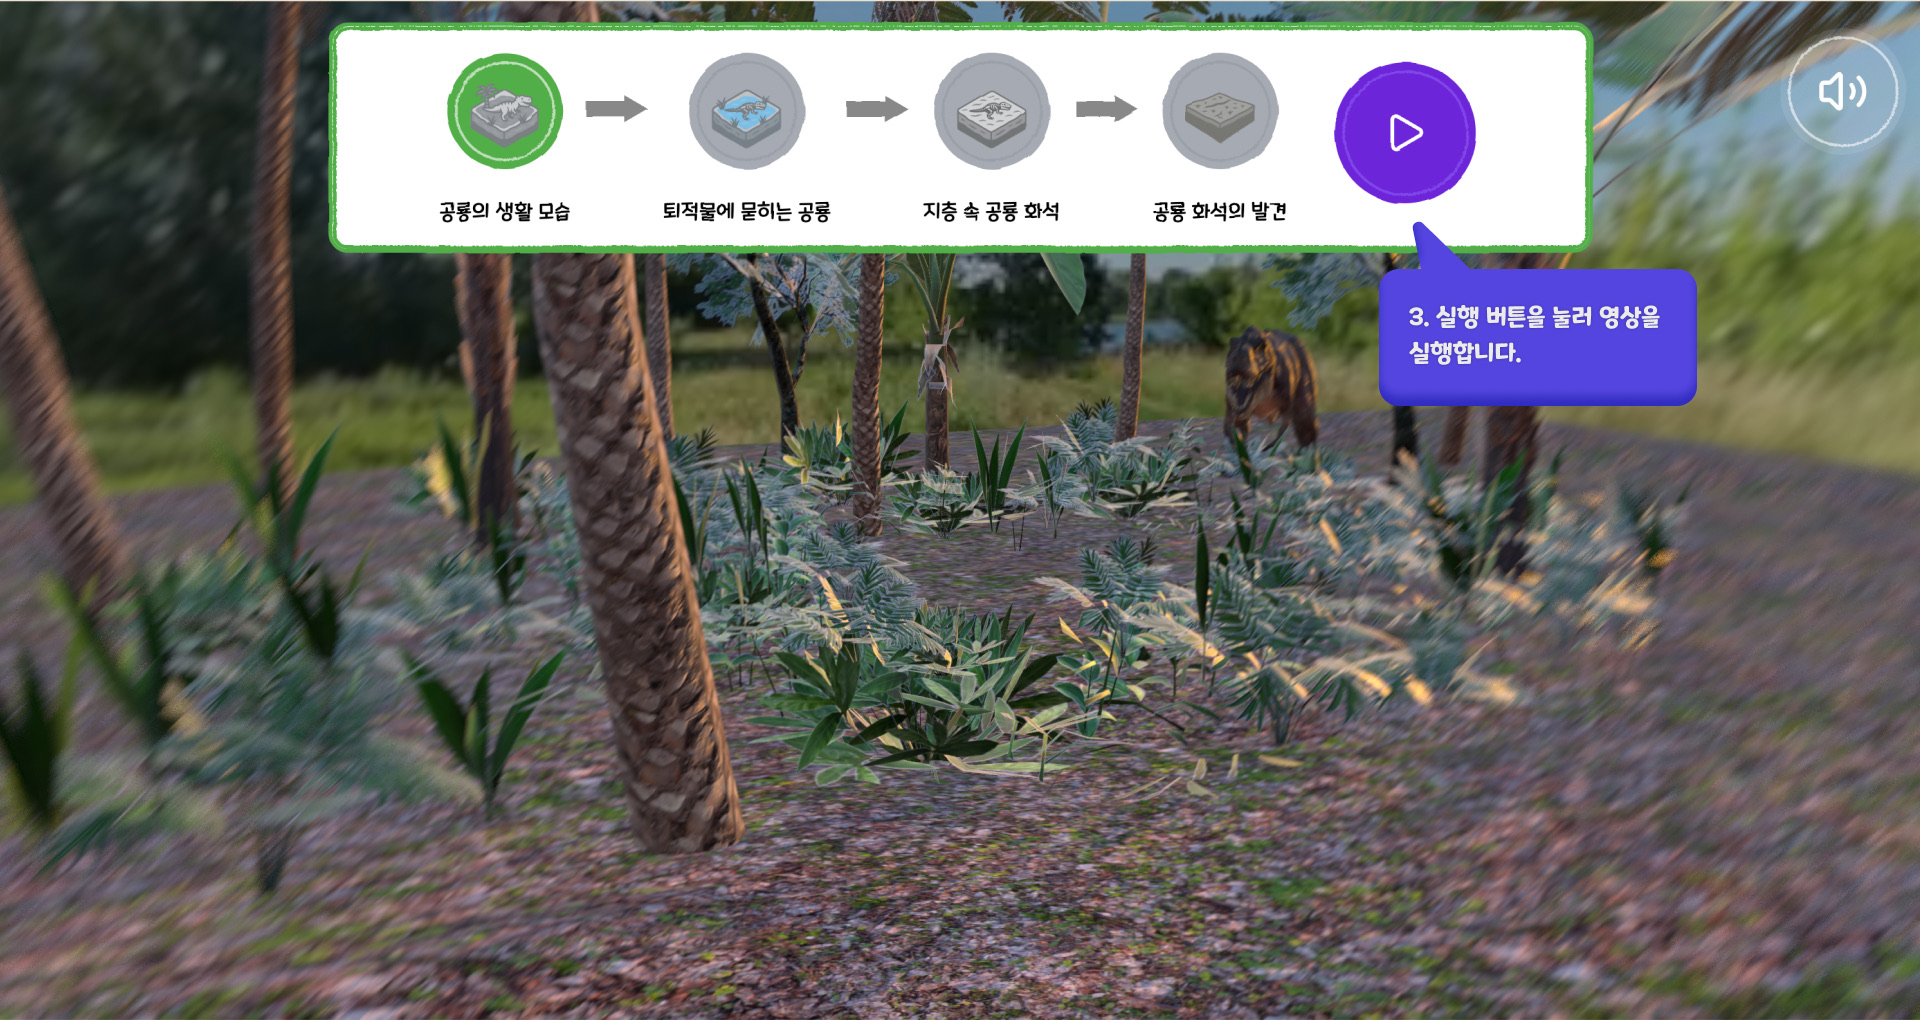
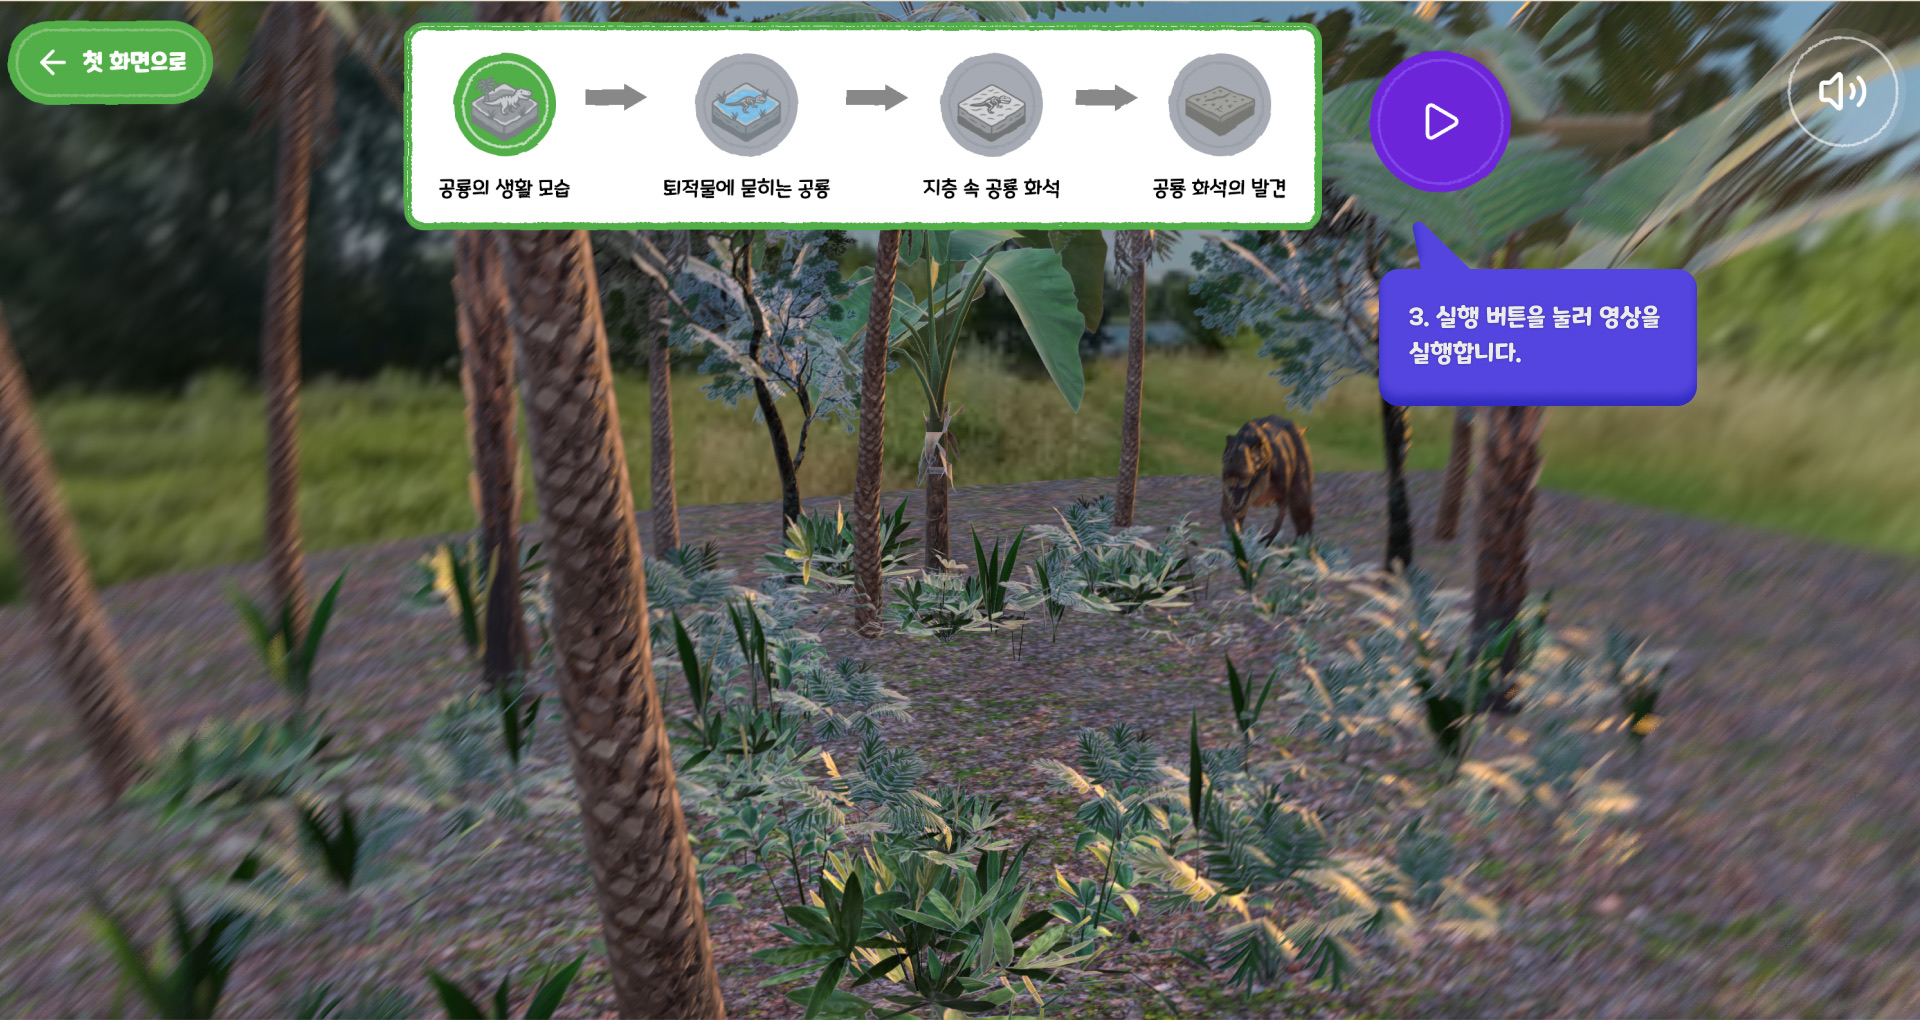
udpate: projects

diff --git a/client/src/pages/5-1-1.tsx b/client/src/pages/5-1-1.tsx
@@ -260,10 +260,12 @@ function SceneContent({
             shadow-bias={-0.0001}
             shadow-normalBias={0.2}
           />
-          <EffectComposer multisampling={2}>
-            <N8AO aoRadius={25} distanceFalloff={1} intensity={3} screenSpaceRadius halfRes />
-            <TiltShift2 />
-          </EffectComposer>
+          {sceneIndex === 0 && (
+            <EffectComposer multisampling={2}>
+              <N8AO aoRadius={25} distanceFalloff={1} intensity={3} screenSpaceRadius halfRes />
+              <TiltShift2 />
+            </EffectComposer>
+          )}
         </>
       )}
 
@@ -271,10 +273,13 @@ function SceneContent({
         path={modelPaths[sceneIndex]}
         scale={3.7}
         position={
-          sceneIndex === 1 ? [-2.44, -7.5, -1.31]
-          : sceneIndex === 2 ? [-2.7, -7, -1.1]
-          : sceneIndex === 3 ? [-2, -7, 0]
-          : [1.5, -7, -2.0]
+          sceneIndex === 1
+            ? [-2.44, -7.5, -1.31]
+            : sceneIndex === 2
+            ? [-2.7, -7, -1.1]
+            : sceneIndex === 3
+            ? [-2, -7, 0]
+            : [1.5, -10, -2.0]
         }
         sceneIndex={sceneIndex}
         shouldAnimate={animationState.isPlaying}
@@ -372,13 +377,6 @@ export default function Home() {
     return () => document.removeEventListener('visibilitychange', handleVisibility)
   }, [bgmEnabled, bgmReady])
 
-  // 최초 사용자 제스처로 언락 (모바일 대비)
-  useEffect(() => {
-    const unlock = () => setBgmReady(true)
-    window.addEventListener('pointerdown', unlock, { once: true })
-    return () => window.removeEventListener('pointerdown', unlock)
-  }, [])
-
   // 페이드 함수
   const fadeTo = useCallback(async (targetVol: number, ms = 400) => {
     const el = bgmRef.current
@@ -400,7 +398,9 @@ export default function Home() {
   useEffect(() => {
     const el = bgmRef.current
     if (!el) return
-    try { localStorage.setItem('bgmEnabled', JSON.stringify(bgmEnabled)) } catch {}
+    try {
+      localStorage.setItem('bgmEnabled', JSON.stringify(bgmEnabled))
+    } catch {}
     const run = async () => {
       if (bgmEnabled && bgmReady) {
         await el.play().catch(() => {})
@@ -465,10 +465,9 @@ export default function Home() {
     audioManager.playEffect(audioPath, 0.5)
   }
 
-  // 인트로에서 "시작하기" → 3D로 전환 + BGM 준비
   const handleEnterExperience = () => {
     playClickSound()
-    setBgmReady(true) // ★ 입장 시 자동 준비
+    setBgmReady(true)
     setTimeout(() => setShowIntro(false), 300)
   }
 
@@ -493,44 +492,62 @@ export default function Home() {
 
   return (
     <div className='w-screen h-screen flex flex-col overflow-hidden'>
-      {/* BGM 토글 버튼 */}
       {mounted && (
-        <CrayonTextButton
-          ariaLabel={bgmEnabled ? '배경음악 끄기' : '배경음악 켜기'}
-          icon={(bgmEnabled ? 'volume2' : 'volumeX').toLowerCase()}
-          position='absolute'
-          iconPosition='left'
-          onClick={toggleBgm}
-          width={108}
-          height={108}
-          color='#ffffff'
-          textcolor='#ffffff'
-          bg='rgba(255,255,255,0.10)'
-          className='background-blur border-white/20 z-[1300]'
-          right={16}
-          top={16}
-          iconSize={40}
-          innerCircleVisible
-        />
+        <>
+          <CrayonTextButton
+            ariaLabel={bgmEnabled ? '배경음악 끄기' : '배경음악 켜기'}
+            icon={(bgmEnabled ? 'volume2' : 'volumeX').toLowerCase()}
+            position='absolute'
+            iconPosition='left'
+            onClick={toggleBgm}
+            width={108}
+            height={108}
+            color='#ffffff'
+            textcolor='#ffffff'
+            bg='rgba(255,255,255,0.10)'
+            className='background-blur border-white/20 z-[1300]'
+            right={16}
+            top={16}
+            iconSize={40}
+          />
+        </>
       )}
 
       {!showIntro && (
-        <NavigationUI
-          ref={navigationUIRef}
-          sceneIndex={sceneIndex}
-          onSceneChange={handleSceneChange}
-          onPlayClick={handlePlayButtonClick}
-          isAnimationComplete={animationState.isComplete}
-          animationState={animationState}
-        />
+        <>
+          <CrayonTextButton
+            ariaLabel='모드 선택 화면으로 돌아가기'
+            text='첫 화면으로'
+            position='absolute'
+            icon='arrow-left'
+            iconPosition='left'
+            width={170}
+            height={75}
+            iconSize={30}
+            left={10}
+            top={10}
+            bg='#52AE46'
+            color='#A1CC90'
+            textcolor='#FFFFFF'
+            className='background-blur border-white/20 z-[1300]'
+            onClick={handleBackToModeSelection}
+          />
+          <NavigationUI
+            ref={navigationUIRef}
+            sceneIndex={sceneIndex}
+            onSceneChange={handleSceneChange}
+            onPlayClick={handlePlayButtonClick}
+            isAnimationComplete={animationState.isComplete}
+            animationState={animationState}
+          />
+        </>
       )}
 
       <div className='flex-1'>
         <Scene
           shadows
           camera={{ position: [0, 10, 10], fov: 50, near: 0.1, far: 5000 }}
-          gl={{ shadowMap: { enabled: true, type: THREE.PCFSoftShadowMap } }}
-        >
+          gl={{ shadowMap: { enabled: true, type: THREE.PCFSoftShadowMap } }}>
           <LoadingTracker onLoadingComplete={handleLoadingComplete} />
           <SceneContent
             sceneIndex={sceneIndex}
@@ -543,10 +560,11 @@ export default function Home() {
 
       {!showIntro && isLoaded && showDescription && (
         <motion.div
-          initial={{ opacity: 0 }} animate={{ opacity: 1 }} exit={{ opacity: 0 }}
+          initial={{ opacity: 0 }}
+          animate={{ opacity: 1 }}
+          exit={{ opacity: 0 }}
           transition={{ duration: 0.5, ease: 'easeInOut' }}
-          className='absolute bottom-5 left-1/2 -translate-x-1/2 z-10 font-bold'
-        >
+          className='absolute bottom-5 left-1/2 -translate-x-1/2 z-10 font-bold'>
           <CrayonTextBox
             bg='#FFFFFF'
             color='#52AE46'

diff --git a/client/src/components/5-1-1/NavigationUI.tsx b/client/src/components/5-1-1/NavigationUI.tsx
@@ -110,8 +110,12 @@ const NavigationUI = forwardRef<
   }
 
   return (
-    <div className='absolute top-4 left-1/2 -translate-x-1/2 w-[65vw] h-[10%] z-[1000]'>
-      <CrayonTextBox color='#52AE46' bg='white' padding={0} className='flex items-center justify-center background-blur'>
+    <div className='absolute flex w-full justify-center left-1/2 -translate-x-1/2 items-center top-4  z-[1000]'>
+      <CrayonTextBox
+        color='#52AE46'
+        bg='white'
+        padding={0}
+        className='flex items-center justify-center background-blur'>
         <div className='flex items-center justify-center rounded-full px-6 py-4'>
           {/* 단계 버튼들 */}
           {[1, 2, 3, 4].map((num) => {
@@ -127,8 +131,8 @@ const NavigationUI = forwardRef<
                   <div className='relative'>
                     <CrayonTextButton
                       ariaLabel={`단계 ${num}`}
-                      width={100}
-                      height={100}
+                      width={90}
+                      height={90}
                       bg={scheme.bg}
                       color={scheme.border}
                       textcolor={scheme.text}
@@ -162,7 +166,7 @@ const NavigationUI = forwardRef<
                   </div>
 
                   {/* 설명 */}
-                  <div className='pt-2 text-center font-light text-[16px] break-keep w-42 sm:w-42'>
+                  <div className='text-center font-light text-[16px] whitespace-nowrap'>
                     <p>{description[stepIdx]}</p>
                   </div>
                 </div>
@@ -182,22 +186,21 @@ const NavigationUI = forwardRef<
               </div>
             )
           })}
-
-          <CrayonTextButton
-            ariaLabel={isAnimationComplete || animationState?.isPlaying ? '다시 듣기' : '재생'}
-            icon={isAnimationComplete || animationState?.isPlaying ? 'refresh-ccw' : 'play'}
-            position='relative'
-            iconSize={34}
-            width={120}
-            color='#8B5CF6'
-            bg='#6D28D9'
-            height={120}
-            textcolor='#fff'
-            onClick={handlePlayClick}
-            className='ml-8'
-          />
         </div>
       </CrayonTextBox>
+      <CrayonTextButton
+        ariaLabel={isAnimationComplete || animationState?.isPlaying ? '다시 듣기' : '재생'}
+        icon={isAnimationComplete || animationState?.isPlaying ? 'refresh-ccw' : 'play'}
+        position='relative'
+        iconSize={34}
+        width={120}
+        color='#8B5CF6'
+        bg='#6D28D9'
+        height={120}
+        textcolor='#fff'
+        onClick={handlePlayClick}
+        className='ml-8'
+      />
     </div>
   )
 })

diff --git a/client/src/components/5-1-1/ActivityGuideModal.tsx b/client/src/components/5-1-1/ActivityGuideModal.tsx
@@ -41,11 +41,11 @@ const activityGuideSlides: ActivityGuideSlide[] = [
     image: '/img/guide/5-1-1/guide6.jpeg',
     audioPath: '/sounds/5-1-1/intro/5-1-1-Intro-6.MP3',
   },
-  // {
-  //   id: 'slide7',
-  //   image: '/img/guide/5-1-1/guide7.jpeg',
-  //   audioPath: '/sounds/5-1-1/intro/5-1-1-Intro-7.MP3',
-  // },
+  {
+    id: 'slide7',
+    image: '/img/guide/5-1-1/guide7.jpeg',
+    audioPath: '/sounds/5-1-1/intro/5-1-1-Intro-7.MP3',
+  },
 ]
 
 const ActivityGuideModal: React.FC<{
@@ -182,7 +182,7 @@ const ActivityGuideModal: React.FC<{
                     key={index}
                     className={`w-2 h-2 rounded-full mx-2 transition-all duration-300 ${
                       index === currentSlide
-                        ? 'bg-[#D54D50] shadow-[0_0_8px_rgba(213,77,88,0.6)] scale-125'
+                        ? 'bg-[#52AE46] shadow-[0_0_8px_rgba(82,174,170,0.6)] scale-125'
                         : 'bg-gray-300 hover:bg-gray-400'
                     }`}
                   />

diff --git a/client/src/pages/5-1-4.tsx b/client/src/pages/5-1-4.tsx
@@ -448,7 +448,6 @@ export default function IntegratedPage() {
 
   return (
     <div className='w-screen h-screen bg-white flex font-bold flex-col'>
-      {/* 뒤로가기 버튼 */}
       <AnimatePresence>
         {mounted && mode !== null && (
           <motion.div
